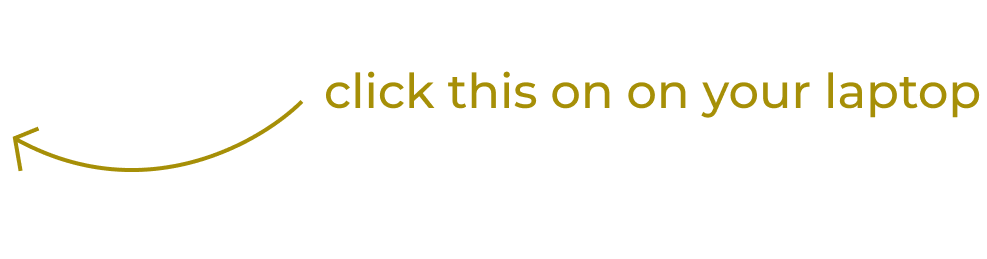
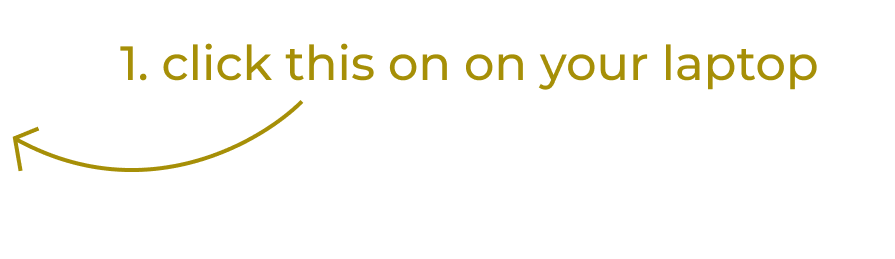
imgs

Changed region(s): [[0.0, 0.1544, 0.9955, 0.6795]]

diff --git a/css/style.css b/css/style.css
@@ -116,9 +116,9 @@ color:#343434;
 
 .instruction_p{
     position: absolute;
-    left: -315px;
+    left: -217px;
     top: 18px;
-    width: 300px;
+    width: 248px;
 }
 
 .instruction_t{
